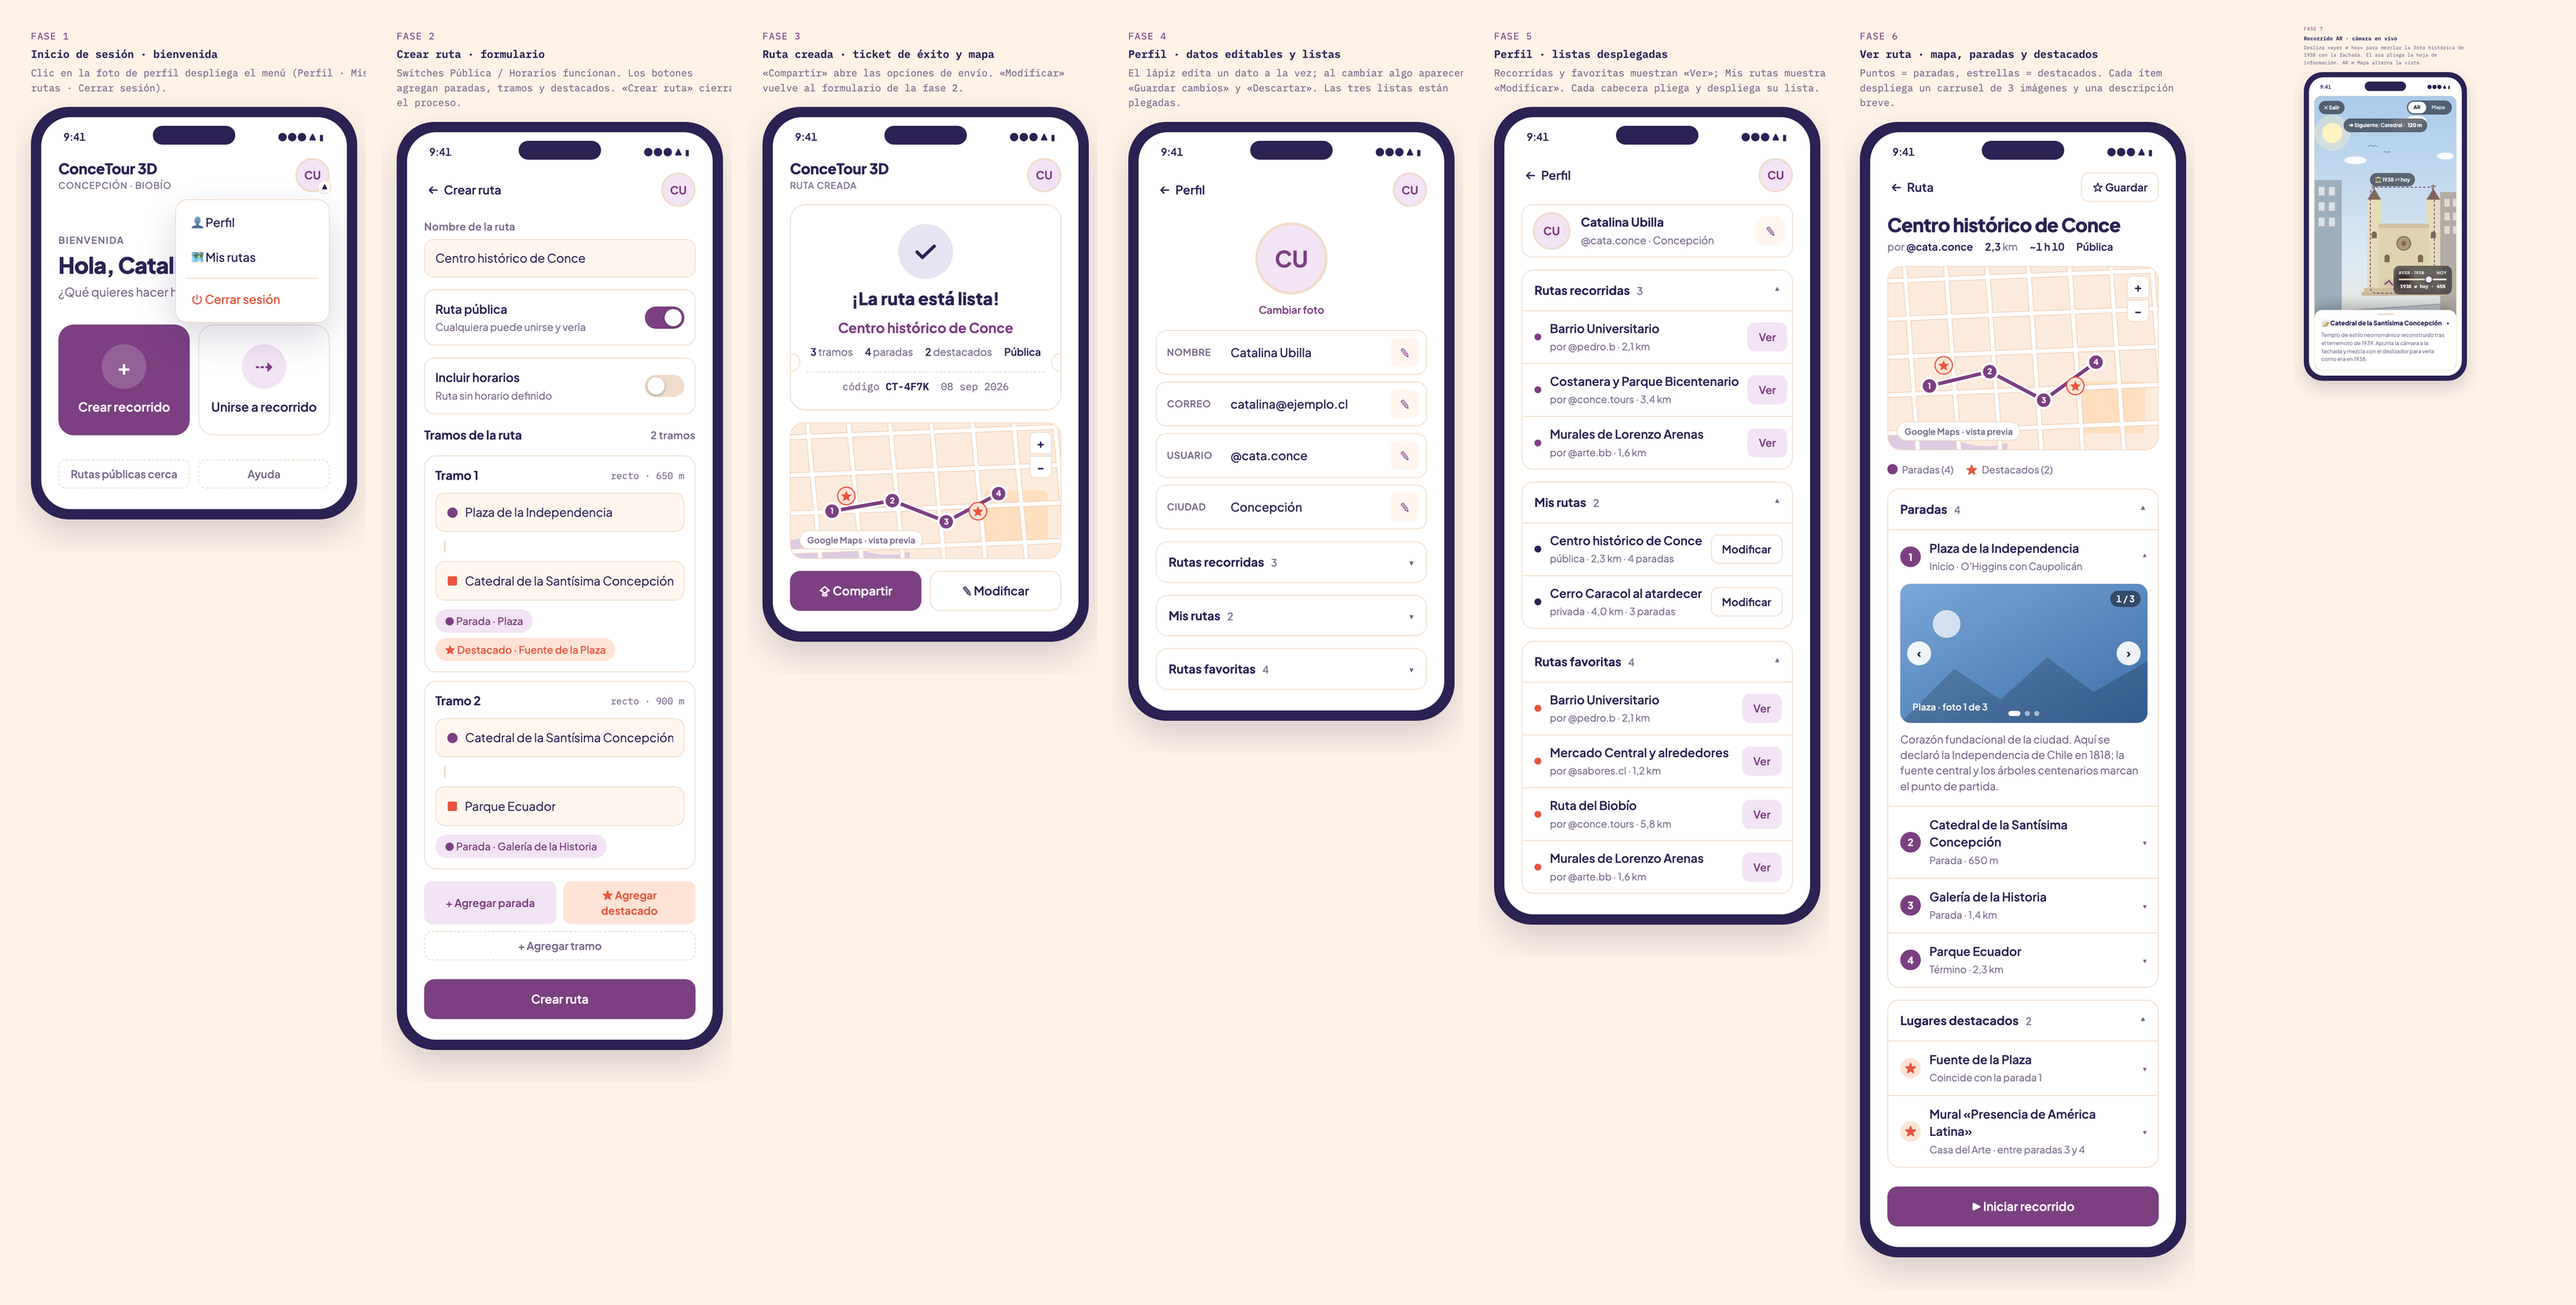
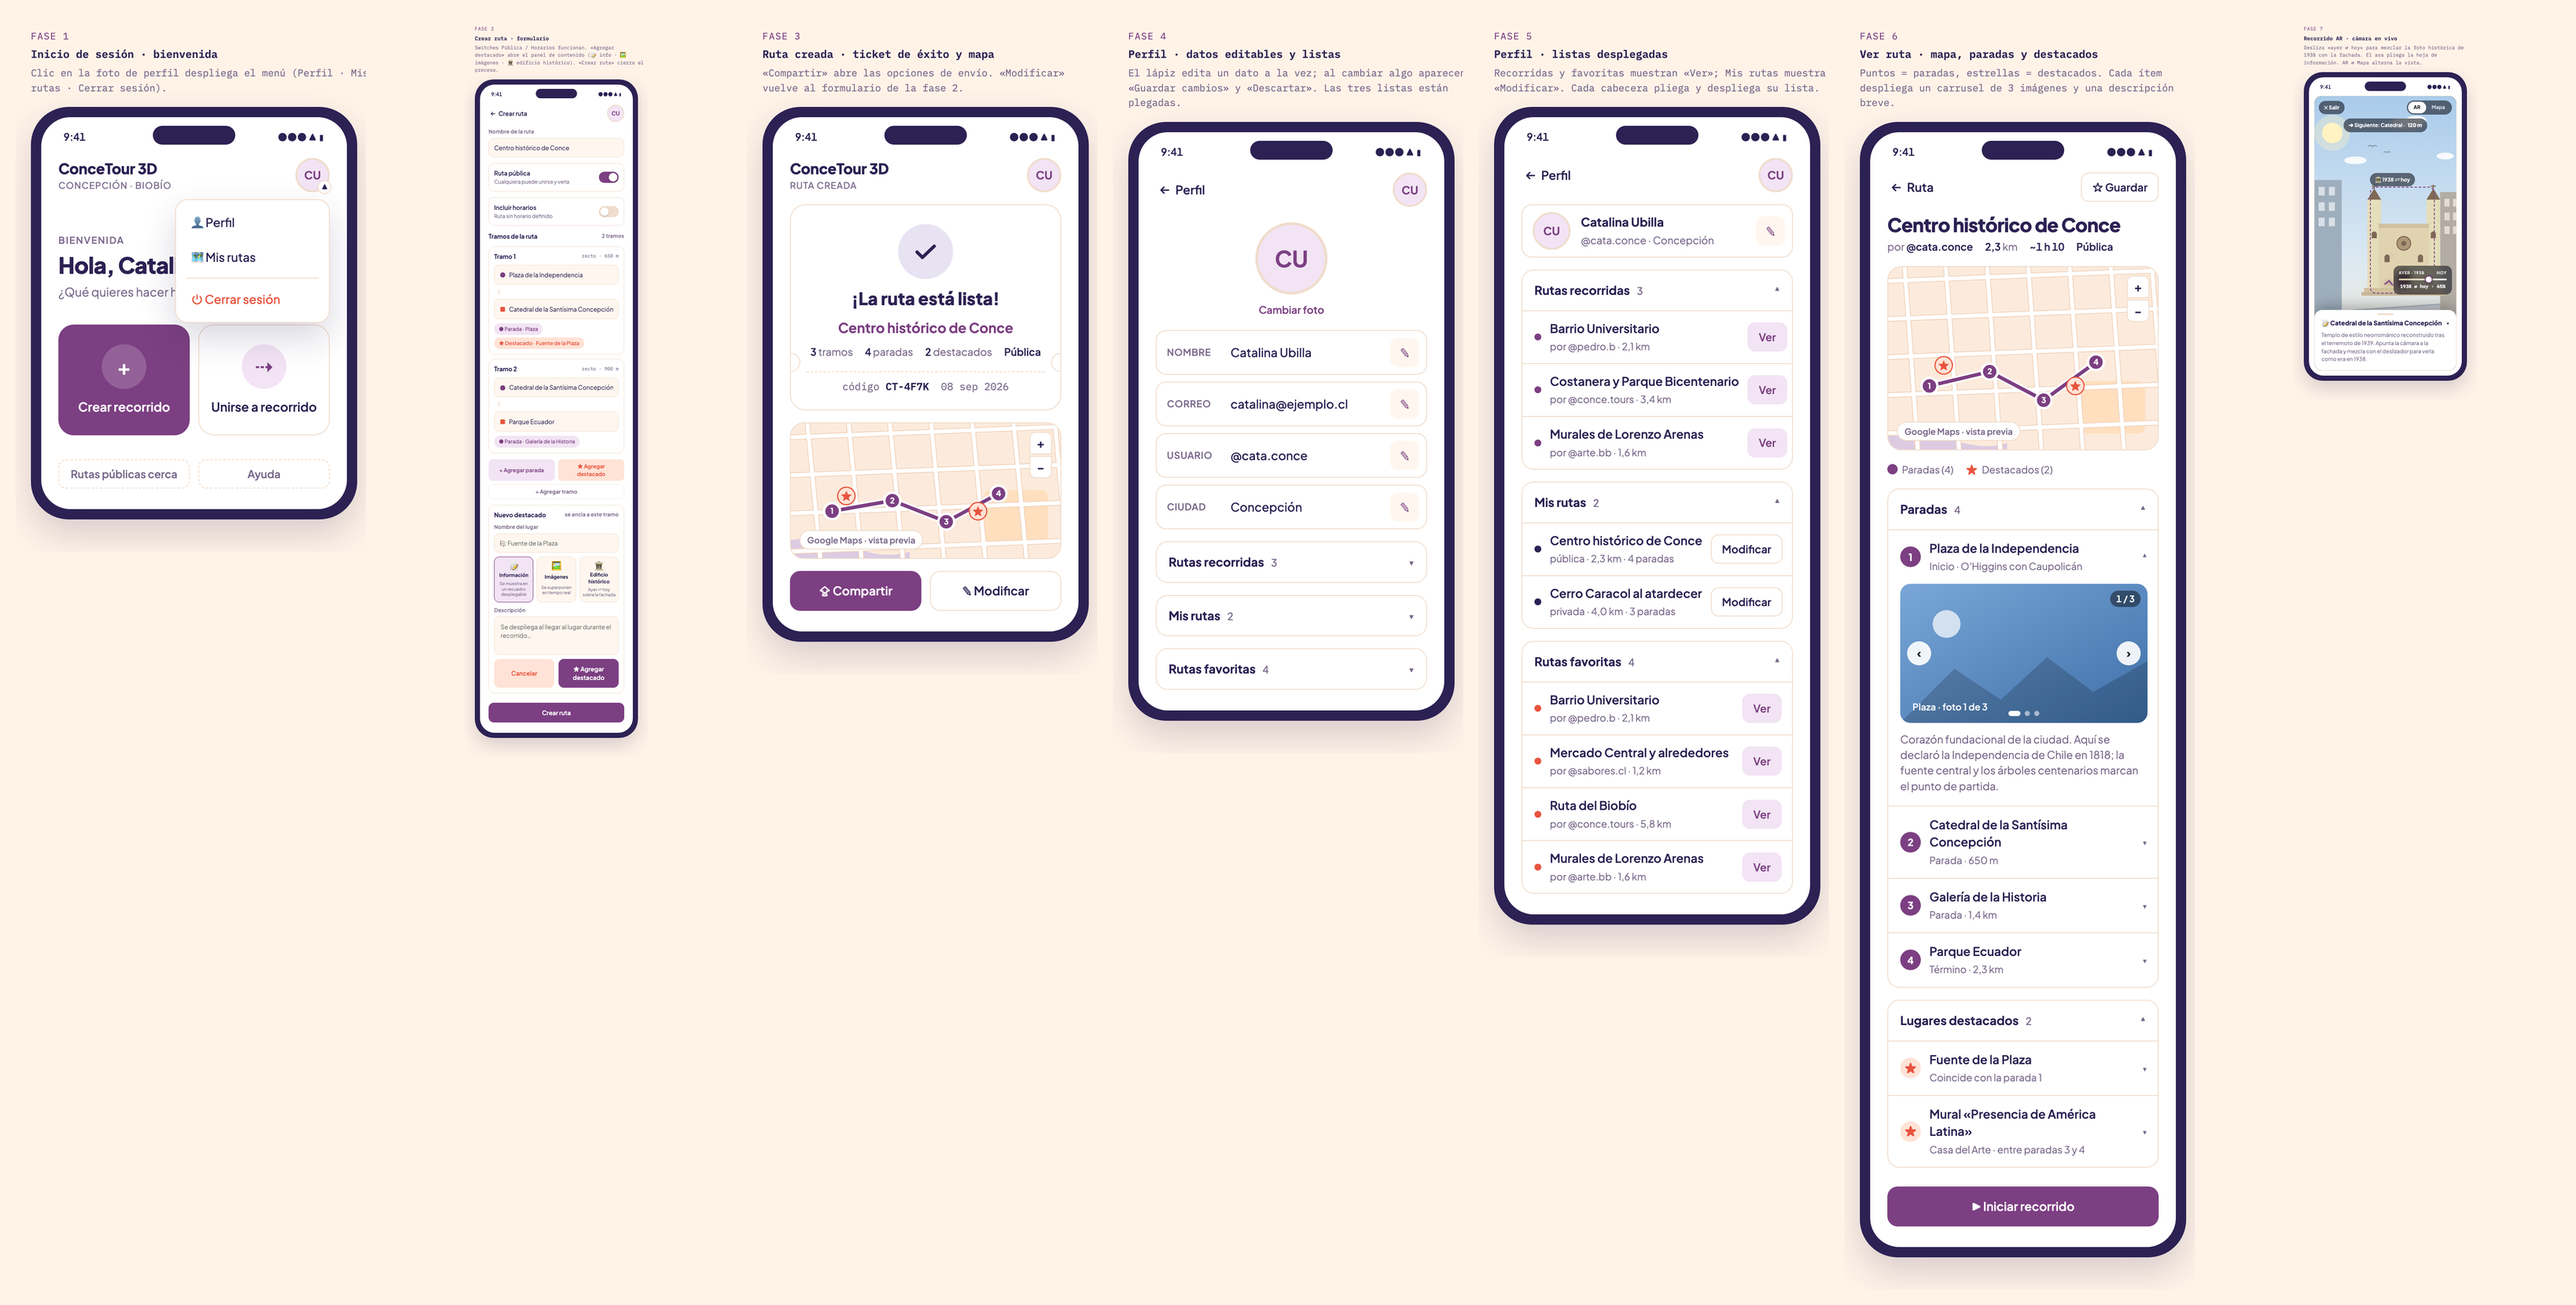
Panel de contenido en destacados (fase 2): info, imágenes y edificio histórico

Changed region(s): [[0.1557, 0.0307, 0.2802, 0.8295], [0.1557, 0.6145, 0.2179, 0.7066]]

diff --git a/mockups/conceTour3D-fases.html b/mockups/conceTour3D-fases.html
@@ -326,6 +326,23 @@ h2.title{font-size:26px;font-weight:800;letter-spacing:-.02em;line-height:1.15}
 .ar .sheet-ar.folded .chev{transform:rotate(180deg)}
 .ar .sheet-ar p{margin:8px 0 0;font-size:12.5px;color:var(--muted);line-height:1.5}
 
+/* ---------- fase 2 · adjuntar contenido a un destacado ---------- */
+.attach{border:1px solid var(--line);border-radius:14px;padding:12px;display:grid;gap:10px;background:var(--surface)}
+.attach .head{display:flex;justify-content:space-between;align-items:center}
+.attach .head b{font-weight:700}
+.attach .opts{display:grid;grid-template-columns:repeat(3,1fr);gap:8px}
+.attach .opt{border:1px solid var(--line);background:var(--surface-2);border-radius:12px;padding:10px 6px;display:grid;justify-items:center;gap:3px;text-align:center;cursor:pointer}
+.attach .opt .ico{font-size:20px;line-height:1}
+.attach .opt b{font-size:11.5px}
+.attach .opt span{font-size:9.8px;color:var(--muted);line-height:1.25}
+.attach .opt.on{border-color:var(--accent);background:var(--accent-soft);box-shadow:0 0 0 2px var(--accent-soft)}
+.attach .drop{border:1.5px dashed var(--line);border-radius:12px;padding:14px 10px;display:grid;justify-items:center;gap:3px;text-align:center;font-size:12.5px;background:var(--surface-2)}
+.attach .drop span{font-size:10.5px;color:var(--muted)}
+.attach .thumbs{display:flex;gap:8px}
+.attach .thumbs i{width:46px;height:46px;border-radius:10px;background:linear-gradient(135deg,var(--accent-soft),var(--surface-2));border:1px dashed var(--line)}
+.attach .hintline{margin:0;font-size:10.5px;color:var(--muted);line-height:1.4}
+.attach textarea{width:100%;border:0;background:transparent;resize:none;outline:none;font:inherit;color:inherit}
+
 .toast{position:absolute;left:50%;bottom:28px;transform:translate(-50%,10px);background:var(--ink);color:var(--surface);padding:9px 14px;border-radius:999px;font-size:12.5px;font-weight:600;opacity:0;pointer-events:none;transition:.25s;white-space:nowrap;z-index:9}
 .toast.show{opacity:1;transform:translate(-50%,0)}
 @media (prefers-reduced-motion:reduce){*{transition:none!important}}
@@ -392,7 +409,7 @@ h2.title{font-size:26px;font-weight:800;letter-spacing:-.02em;line-height:1.15}
 
   <!-- ============ FASE 2 · CREAR RUTA ============ -->
   <section class="fase" data-fase="2">
-    <div class="cap"><span class="num">Fase 2</span><b>Crear ruta · formulario</b><span class="hint">Switches Pública / Horarios funcionan. Los botones agregan paradas, tramos y destacados. «Crear ruta» cierra el proceso.</span></div>
+    <div class="cap"><span class="num">Fase 2</span><b>Crear ruta · formulario</b><span class="hint">Switches Pública / Horarios funcionan. «Agregar destacado» abre el panel de contenido (📝 info · 🖼 imágenes · 🏛 edificio histórico). «Crear ruta» cierra el proceso.</span></div>
     <div class="phone"><div class="screen">
       <div class="status"><span>9:41</span><span class="pill"></span><span>●●● ▲ ▮</span></div>
       <div class="body">
@@ -441,8 +458,39 @@ h2.title{font-size:26px;font-weight:800;letter-spacing:-.02em;line-height:1.15}
         </div>
         <div class="adds">
           <button class="btn sm soft" data-add="parada">+ Agregar parada</button>
-          <button class="btn sm soft" data-add="destacado" style="background:var(--star-soft);color:var(--star)">★ Agregar destacado</button>
+          <button class="btn sm soft" data-open="att2" style="background:var(--star-soft);color:var(--star)">★ Agregar destacado</button>
           <button class="btn sm ghost wide" data-add="tramo">+ Agregar tramo</button>
+        </div>
+        <div class="attach" id="att2" hidden>
+          <div class="head"><b>Nuevo destacado</b><span class="label">se ancla a este tramo</span></div>
+          <div class="field">
+            <span class="label">Nombre del lugar</span>
+            <div class="input"><input placeholder="Ej: Fuente de la Plaza"></div>
+          </div>
+          <div class="opts" role="group" aria-label="Tipo de contenido">
+            <button class="opt on" data-opt="info"><span class="ico">📝</span><b>Información</b><span>Se muestra en un recuadro desplegable</span></button>
+            <button class="opt" data-opt="img"><span class="ico">🖼</span><b>Imágenes</b><span>Se superponen en tiempo real</span></button>
+            <button class="opt" data-opt="hist"><span class="ico">🏛</span><b>Edificio histórico</b><span>Ayer ⇄ hoy sobre la fachada</span></button>
+          </div>
+          <div class="optpane" data-pane="info">
+            <div class="field">
+              <span class="label">Descripción</span>
+              <div class="input" style="align-items:flex-start"><textarea rows="3" placeholder="Se despliega al llegar al lugar durante el recorrido…"></textarea></div>
+            </div>
+          </div>
+          <div class="optpane" data-pane="img" hidden>
+            <div class="drop">🖼 Arrastra imágenes o <b>toca para subir</b><span>Se verán superpuestas en la cámara durante el recorrido</span></div>
+            <div class="thumbs"><i></i><i></i><i></i></div>
+          </div>
+          <div class="optpane" data-pane="hist" hidden>
+            <div class="drop">🏛 <b>Imagen antigua</b> · obligatoria<span>Se alinea sobre la fachada real en el recorrido</span></div>
+            <div class="drop">📷 <b>Foto actual de referencia</b><span>Permite reconocer la fachada con la cámara</span></div>
+            <p class="hintline">En rutas públicas se pedirá declarar la fuente y licencia de la imagen histórica.</p>
+          </div>
+          <div class="row">
+            <button class="btn danger" data-act="cancel">Cancelar</button>
+            <button class="btn primary" data-act="add">★ Agregar destacado</button>
+          </div>
         </div>
         <div class="sticky-cta"><button class="btn primary block" data-toast="Ruta creada ✓">Crear ruta</button></div>
       </div>
@@ -728,6 +776,7 @@ h2.title{font-size:26px;font-weight:800;letter-spacing:-.02em;line-height:1.15}
     document.querySelectorAll('.fase').forEach(function(s){ s.hidden = s.dataset.fase !== q; });
     document.querySelector('.sheet').style.padding = '24px';
   }
+  var pq=params.get('panel'); if(pq){ var pp=document.getElementById(pq); if(pp) pp.hidden=false; }
 
   /* ---------- mapa (SVG generado) ---------- */
   function mapSVG(size){
@@ -880,6 +929,32 @@ h2.title{font-size:26px;font-weight:800;letter-spacing:-.02em;line-height:1.15}
     var seg=ar.querySelectorAll('.seg button'), mapv=ar.querySelector('.map');
     seg.forEach(function(b){ b.addEventListener('click',function(){ seg.forEach(function(x){ x.classList.toggle('on',x===b); }); if(mapv) mapv.hidden = b.dataset.view!=='map'; }); });
   });
+
+  /* ---------- fase 2 · panel de contenido del destacado ---------- */
+  document.querySelectorAll('[data-open]').forEach(function(b){
+    var panel=document.getElementById(b.dataset.open);
+    b.addEventListener('click',function(){ panel.hidden=false; });
+  });
+  (function(){
+    var panel=document.getElementById('att2'); if(!panel) return;
+    var opts=panel.querySelectorAll('.opt'), panes=panel.querySelectorAll('.optpane');
+    opts.forEach(function(o){
+      o.addEventListener('click',function(){
+        opts.forEach(function(x){ x.classList.toggle('on',x===o); });
+        panes.forEach(function(p){ p.hidden = p.dataset.pane!==o.dataset.opt; });
+      });
+    });
+    panel.querySelector('[data-act="cancel"]').addEventListener('click',function(){ panel.hidden=true; });
+    panel.querySelector('[data-act="add"]').addEventListener('click',function(){
+      var name=panel.querySelector('input').value.trim() || 'Lugar destacado';
+      var type=panel.querySelector('.opt.on').dataset.opt;
+      var icon=type==='info' ? '📝' : (type==='img' ? '🖼' : '🏛');
+      var chips=lastTramo().querySelector('.chips');
+      var c=document.createElement('span'); c.className='chip star'; c.textContent='★ '+name+' · '+icon;
+      chips.appendChild(c); panel.hidden=true;
+      toast(panel,'Destacado agregado '+icon);
+    });
+  })();
 
   /* ---------- toasts ---------- */
   function toast(el,msg){ var t=el.closest('.screen').querySelector('.toast'); if(!t) return; t.textContent=msg; t.classList.add('show'); clearTimeout(t._h); t._h=setTimeout(function(){t.classList.remove('show')},1800); }

diff --git a/docs/flujo-de-fases.md b/docs/flujo-de-fases.md
@@ -44,16 +44,19 @@ Formulario de creación de ruta. Es la pantalla con más densidad de informació
   - Cabecera: «Tramo N» + tipo y distancia (ej. «recto · 650 m»).
   - Campo de origen (● pin) y destino (■ pin).
   - Chips de paradas (●) y destacados (★) asociados al tramo.
-- **Contenido de destacados (definido con AR):** al agregar un destacado se ofrece adjuntar:
-  - 📝 **Información** → texto que se mostrará en un **recuadro desplegable** durante el recorrido.
-  - 🖼 **Imagen(es)** → se **superponen en tiempo real** en la vista de cámara.
-  - 🏛 **Edificio histórico** → pide además la **imagen antigua + foto actual de referencia** para el modo «ayer y hoy» (ver fase 7 y [realidad-aumentada.md](realidad-aumentada.md)).
+- **Contenido de destacados (prototipado):** al tocar **«★ Agregar destacado»** se abre un panel *Nuevo destacado* con nombre del lugar y tres tipos de contenido:
+  - 📝 **Información** → campo de descripción que se mostrará en un **recuadro desplegable** durante el recorrido.
+  - 🖼 **Imágenes** → zona de carga simulada (se **superponen en tiempo real** en la vista de cámara).
+  - 🏛 **Edificio histórico** → pide la **imagen antigua (obligatoria) + foto actual de referencia** para el modo «ayer y hoy» (ver fase 7 y [realidad-aumentada.md](realidad-aumentada.md)), con aviso de declarar fuente/licencia en rutas públicas.
+  - Al confirmar, el destacado se agrega como chip al tramo con su icono de tipo (📝/🖼/🏛).
 - **Botones de agregar:** + Agregar parada · ★ Agregar destacado · + Agregar tramo (agregan elementos al formulario de forma dinámica en el mockup).
 - **CTA fijo (sticky):** «Crear ruta» → muestra el toast «Ruta creada ✓» y representa la transición a la fase 3.
 
 **Decisión de diseño:** el switch de horarios revela sus campos en lugar de mostrarlos siempre, manteniendo el formulario compacto cuando no aplican. El contenido multimedia de cada punto viaja asociado a su georreferencia, porque es lo que la vista AR consume en el recorrido.
 
 ![Fase 2 — paleta estándar](../mockups/img/estandar/fase-02-crear-ruta.png)
+
+> La captura muestra el panel de destacado abierto (se abre con «★ Agregar destacado» o forzado con `?fase=2&panel=att2`). Los tres tipos de contenido alternan sus campos al tocarse.
 
 ---
 
@@ -199,7 +202,6 @@ Fase 6 ── ▶ Iniciar recorrido ─────────► Fase 7 (Recor
 
 ## Flujos aún no prototipados
 
-- Adjuntar contenido (📝/🖼/🏛) en el formulario de la fase 2 — la estructura está definida, falta la UI de carga de archivos en el mockup.
 - Unirse a un recorrido con código/enlace de invitación (entrada desde la fase 1).
 - Buscador de rutas públicas cercanas.
 - Escaneo de código QR como acceso directo a una ruta.

diff --git a/README.md b/README.md
@@ -51,7 +51,7 @@ Las siete fases están prototipadas en el mockup interactivo; la fase 7 usa una 
 | Fase | Pantalla | Descripción |
 |------|----------|-------------|
 | 1 | [Inicio / bienvenida](docs/flujo-de-fases.md#fase-1--inicio--bienvenida) | Menú de usuario, acceso rápido a crear o unirse a un recorrido |
-| 2 | [Crear ruta](docs/flujo-de-fases.md#fase-2--crear-ruta) | Formulario con tramos, paradas, destacados con contenido (info/imágenes/edificios) y horarios |
+| 2 | [Crear ruta](docs/flujo-de-fases.md#fase-2--crear-ruta) | Formulario con tramos, paradas, destacados con panel de contenido (📝 info · 🖼 imágenes · 🏛 edificios) y horarios |
 | 3 | [Ruta creada](docs/flujo-de-fases.md#fase-3--ruta-creada) | Ticket de éxito con código de ruta, mapa y opciones de compartir |
 | 4 | [Perfil](docs/flujo-de-fases.md#fase-4--perfil) | Datos editables y listas plegadas (recorridas, propias, favoritas) |
 | 5 | [Perfil · listas desplegadas](docs/flujo-de-fases.md#fase-5--perfil-con-listas-desplegadas) | Las tres listas del perfil abiertas |
@@ -121,7 +121,7 @@ conceTour3D/
 - [x] ~~Mockup de la fase 7 (recorrido AR)~~ — hecho: cámara simulada, flechas, hoja plegable y «ayer ⇄ hoy»
 - [ ] Elección de stack con soporte AR: nativo (ARKit iOS / ARCore Android), multiplataforma (Unity AR Foundation, Flutter) o híbrido
 - [ ] Estrategia de anclaje AR: fase 1 GPS + brújula, fase 2 reconocimiento de imagen por fachada
-- [ ] UI de carga de contenido en destacados (fase 2): información, imágenes, edificios históricos
+- [x] ~~UI de carga de contenido en destacados (fase 2)~~ — hecho: panel *Nuevo destacado* con 📝 información, 🖼 imágenes y 🏛 edificio histórico (imagen antigua + foto de referencia)
 - [ ] Mapa real con cartografía de Concepción (reemplaza el mapa vectorial ilustrado del mockup)
 - [ ] Sistema de cuentas y autenticación
 - [ ] Códigos de invitación y enlaces públicos

diff --git a/docs/realidad-aumentada.md b/docs/realidad-aumentada.md
@@ -46,7 +46,9 @@ Caso especial acordado para **edificios importantes**:
 
 **Decisión de diseño:** partir con GPS + brújula y reconocimiento de imagen por fachada; el world tracking queda como mejora evolutiva.
 
-## 5. Cambios en la creación de recorridos (fase 2)
+## 5. Cambios en la creación de recorridos (fase 2) — *prototipado*
+
+> ✅ Este flujo ya está prototipado en el mockup: «★ Agregar destacado» abre el panel *Nuevo destacado* con los tres tipos de contenido (se abre forzado con `?fase=2&panel=att2`).
 
 El formulario de «Crear ruta» se amplía. Al **agregar un destacado** (★) o parada, se ofrece adjuntar contenido:
 
